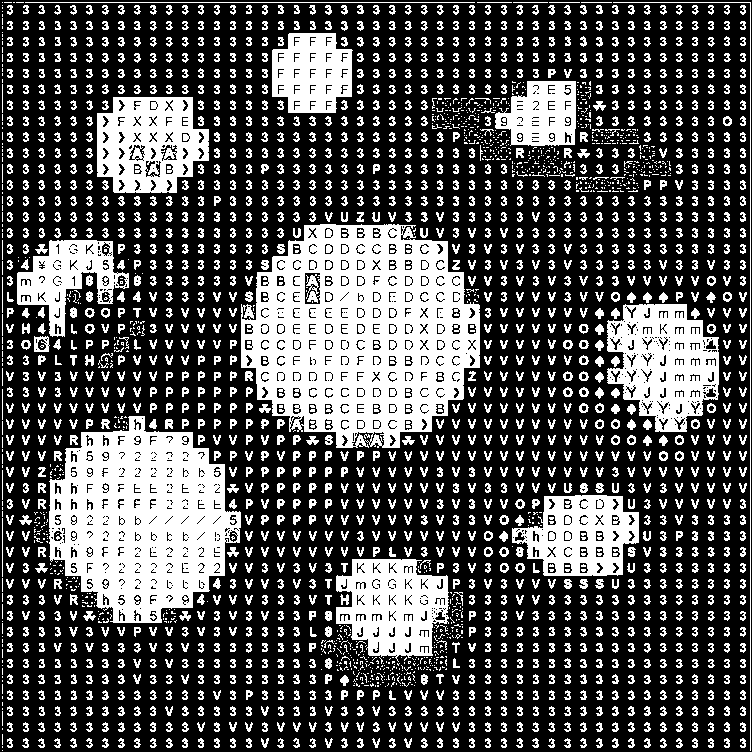
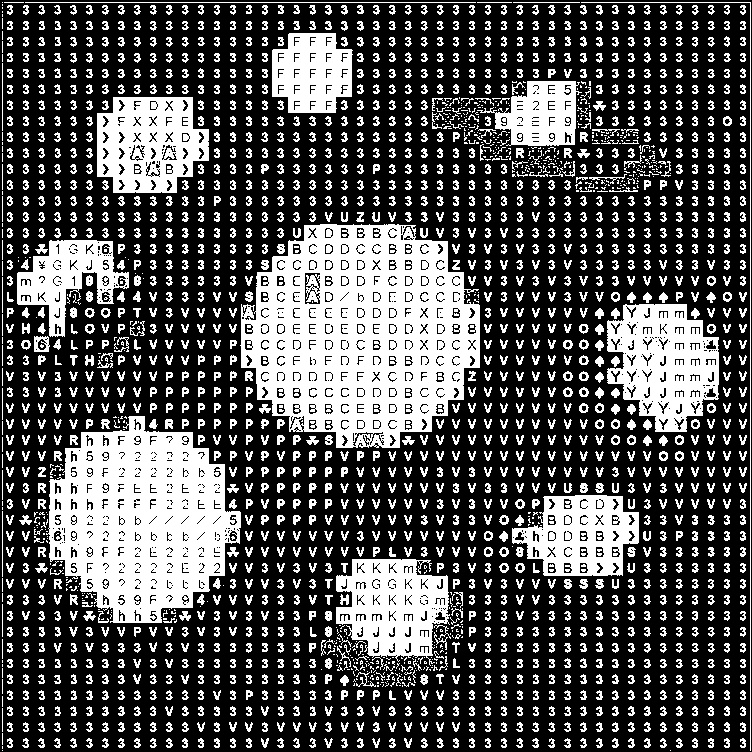
Testing Functions

diff --git a/main.py b/main.py
@@ -1,17 +1,24 @@
 from classes import Drill 
 from drill import generate_vector
 import var 
-from PIL import Image
+from PIL import Image, ImageEnhance
 import numpy as np
 
 canvas = []
 
 img = Image.open(var.name).convert("L")  # grayscale
+img.save("og_img.png")
+
+# increase contrast
+enhancer = ImageEnhance.Contrast(img)
+enhancer = ImageEnhance.Contrast(img)
+contrast_img = enhancer.enhance(2.0)
+contrast_img.save("contrast.png")
+
 arr = np.array(img)
 
 # threshold
-arr = np.where(arr > 127, 255, 0).astype(np.uint8)
-
+arr = np.where(arr > 125, 255, 0).astype(np.uint8)
 bw_img = Image.fromarray(arr)
 bw_img.save("BW_space.png")
 
